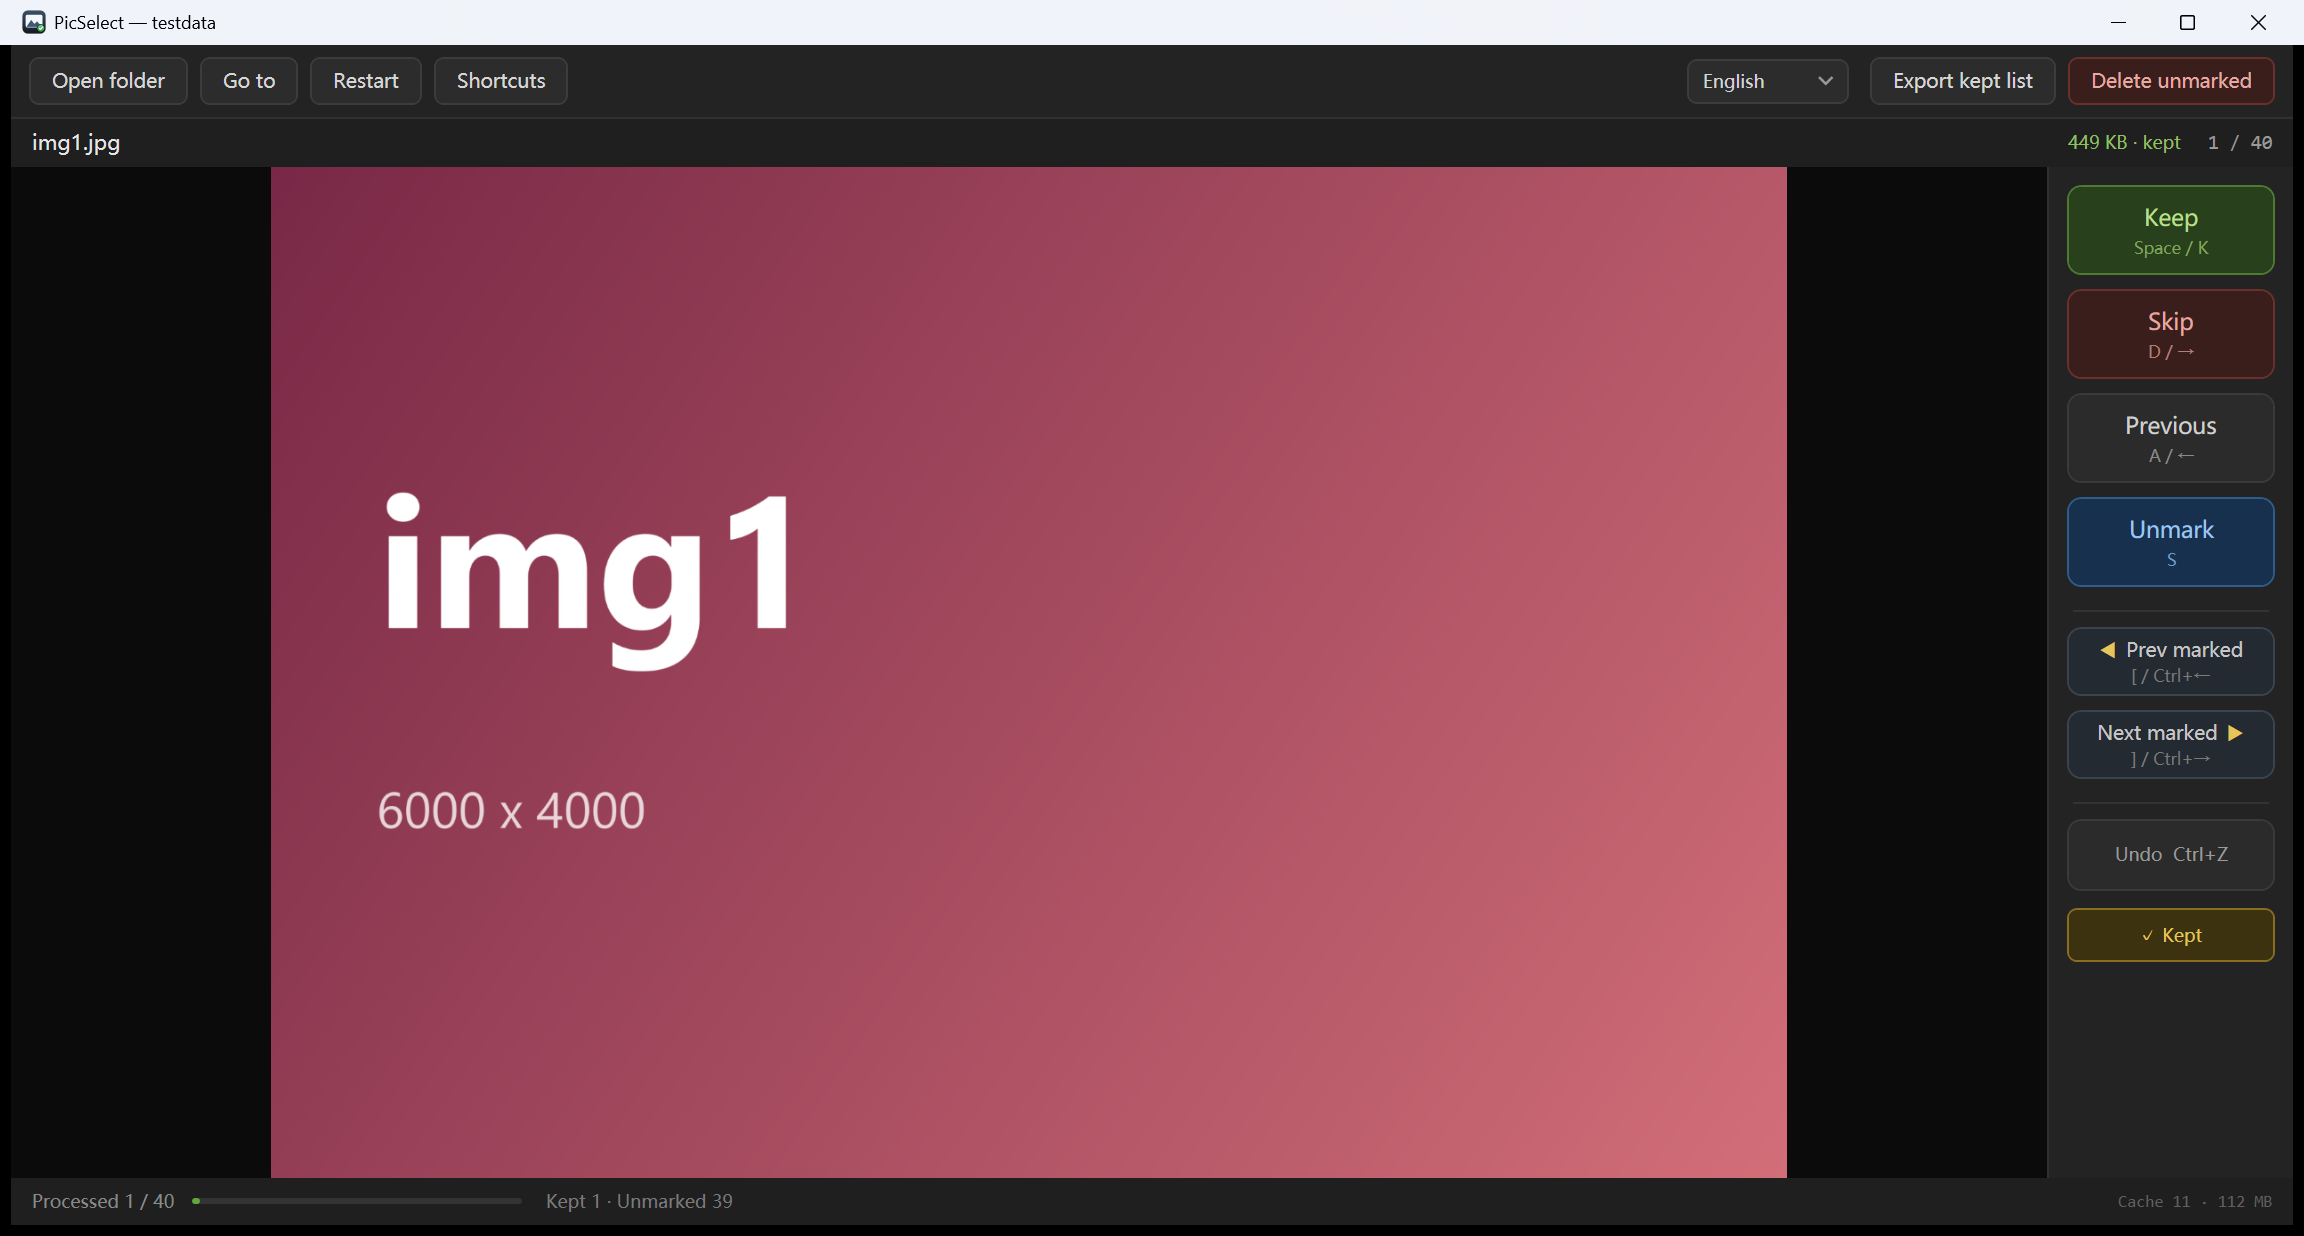
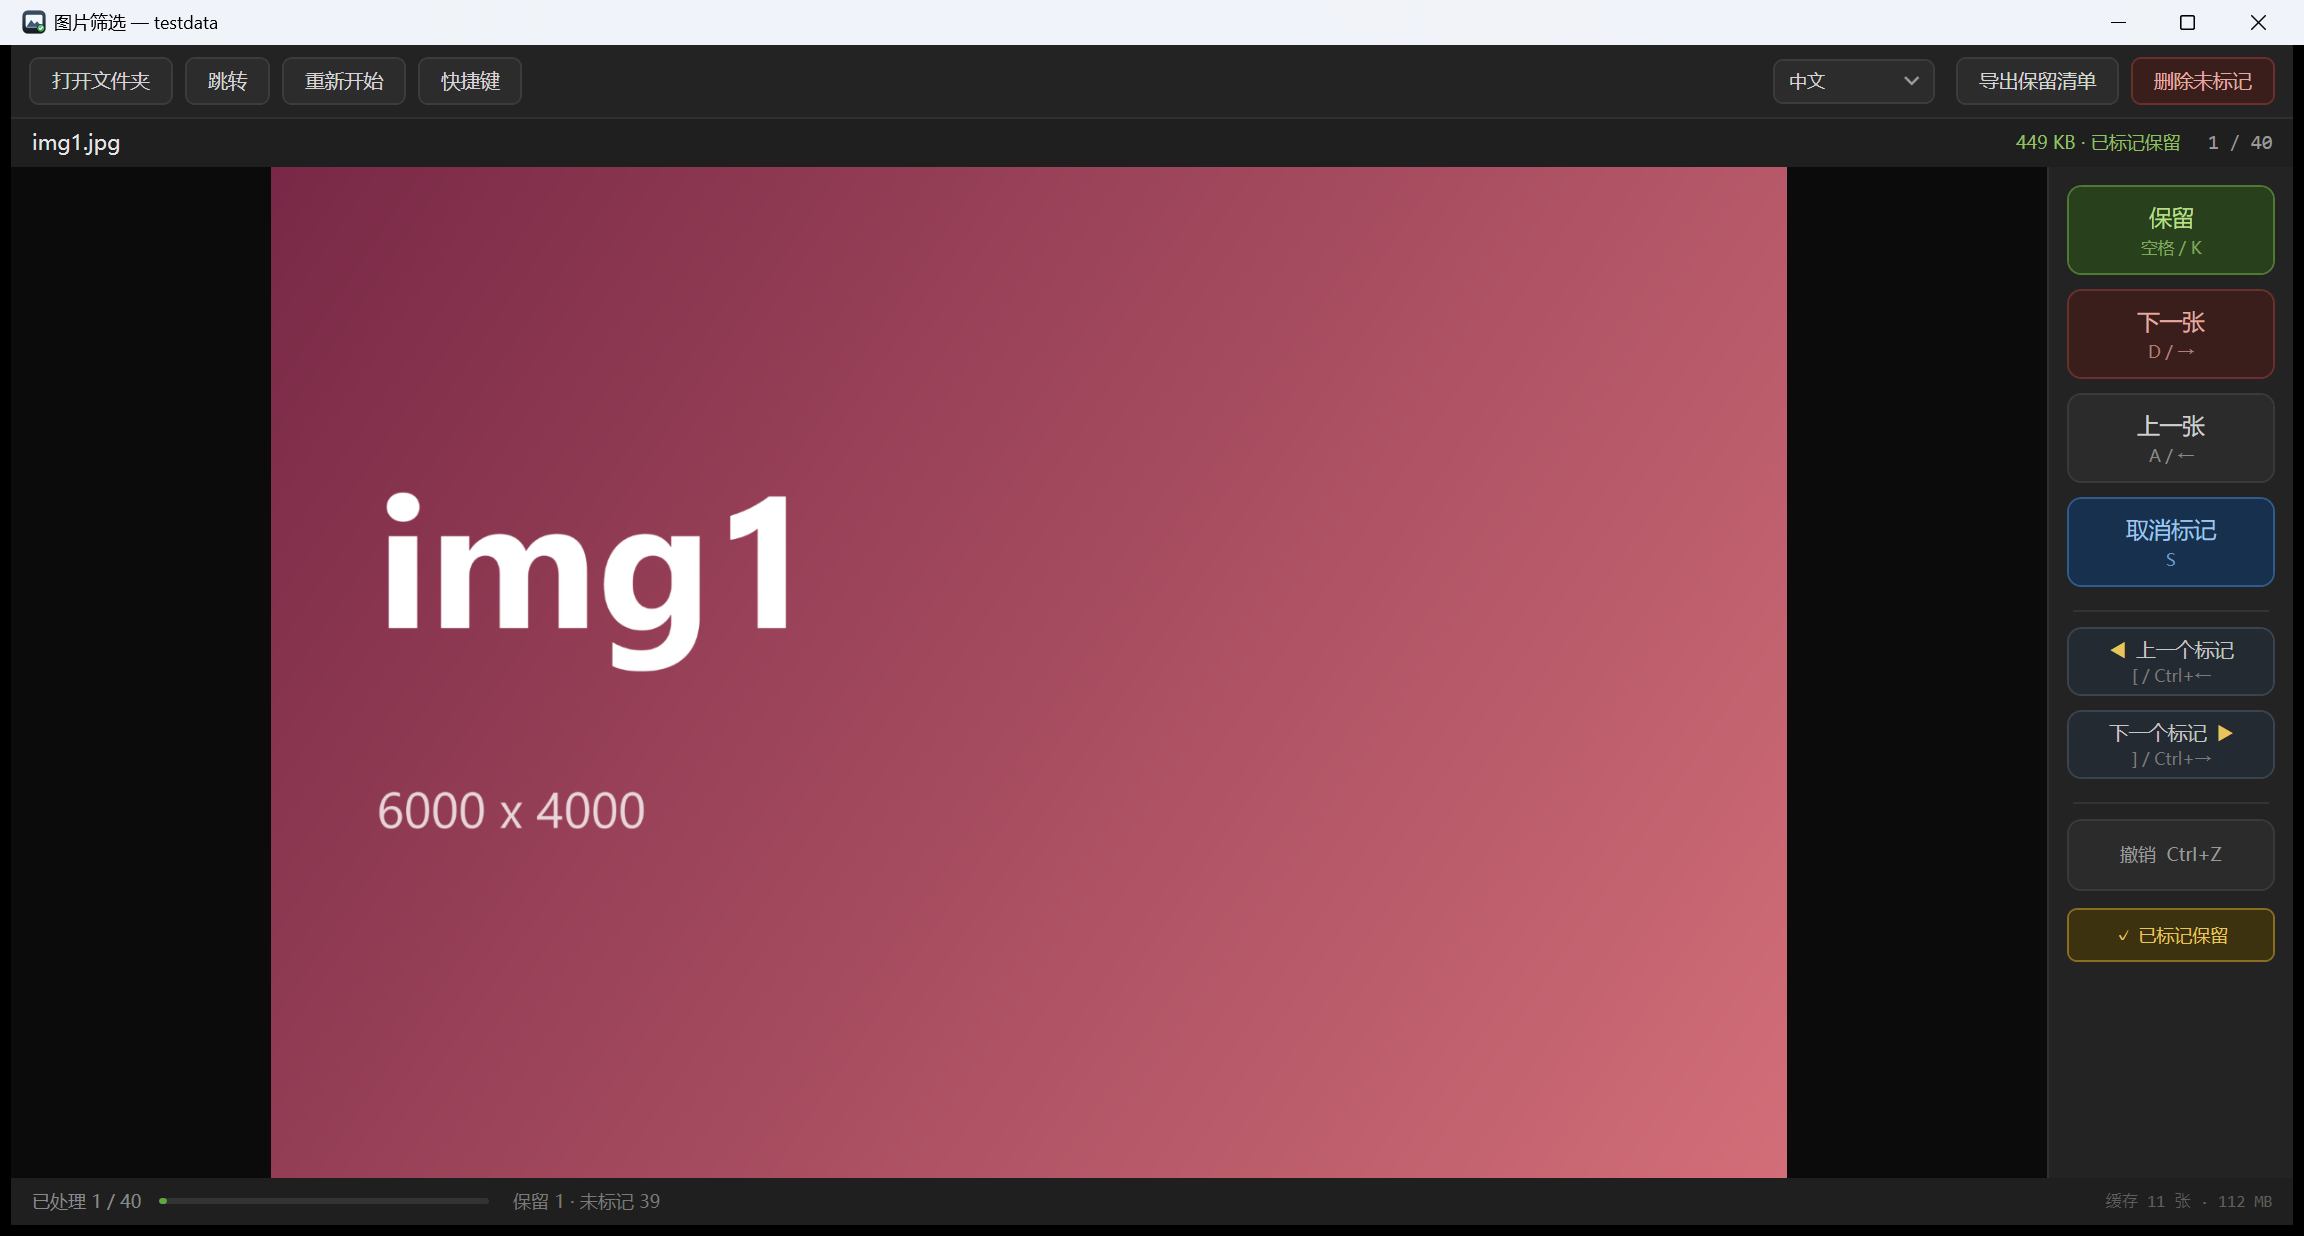
文言更新

diff --git a/src/PicSelect/MainWindow.xaml b/src/PicSelect/MainWindow.xaml
@@ -239,7 +239,7 @@
                     <Button Style="{StaticResource ActionButton}" Click="OnSkip"
                             Background="#3A1E1C" BorderBrush="#6B302C">
                         <StackPanel>
-                            <TextBlock x:Name="TxtSkipTitle" Text="Skip" FontSize="15"
+                            <TextBlock x:Name="TxtSkipTitle" Text="Next" FontSize="15"
                                        HorizontalAlignment="Center" Foreground="#E8A9A3" />
                             <TextBlock x:Name="TxtSkipHint" Text="D / →" FontSize="11"
                                        HorizontalAlignment="Center" Foreground="#B87C76" Margin="0,3,0,0" />

diff --git a/src/PicSelect/Core/Loc.cs b/src/PicSelect/Core/Loc.cs
@@ -59,7 +59,7 @@ public static class Loc
             ["top.delete"] = "Delete unmarked",
 
             ["btn.keep"] = "Keep",
-            ["btn.skip"] = "Skip",
+            ["btn.skip"] = "Next",
             ["btn.prev"] = "Previous",
             ["btn.mark"] = "Mark",
             ["btn.unmark"] = "Unmark",
@@ -130,7 +130,7 @@ public static class Loc
             ["help.title"] = "Shortcuts",
             ["help.body"] =
                 "Space / K     Keep and go next\n" +
-                "D / →         Skip and go next\n" +
+                "D / →         Next without marking\n" +
                 "A / ←         Previous image\n" +
                 "S             Toggle mark (stays on this image)\n" +
                 "[ / ]         Previous / next marked image\n" +
@@ -161,7 +161,7 @@ public static class Loc
             ["top.delete"] = "删除未标记",
 
             ["btn.keep"] = "保留",
-            ["btn.skip"] = "跳过",
+            ["btn.skip"] = "下一张",
             ["btn.prev"] = "上一张",
             ["btn.mark"] = "标记保留",
             ["btn.unmark"] = "取消标记",
@@ -232,7 +232,7 @@ public static class Loc
             ["help.title"] = "快捷键",
             ["help.body"] =
                 "空格 / K     保留并进入下一张\n" +
-                "D / →        跳过，进入下一张\n" +
+                "D / →        下一张（不标记）\n" +
                 "A / ←        上一张\n" +
                 "S            标记 / 取消标记（不移动）\n" +
                 "[ / ]        上一个 / 下一个已标记的图片\n" +
@@ -263,7 +263,7 @@ public static class Loc
             ["top.delete"] = "未選択を削除",
 
             ["btn.keep"] = "残す",
-            ["btn.skip"] = "飛ばす",
+            ["btn.skip"] = "次へ",
             ["btn.prev"] = "前へ",
             ["btn.mark"] = "残す印",
             ["btn.unmark"] = "印を消す",
@@ -334,7 +334,7 @@ public static class Loc
             ["help.title"] = "ショートカット",
             ["help.body"] =
                 "スペース / K   残して次へ\n" +
-                "D / →          飛ばして次へ\n" +
+                "D / →          印を付けずに次へ\n" +
                 "A / ←          前の画像\n" +
                 "S              印を付ける / 外す（移動しない）\n" +
                 "[ / ]          前 / 次の印へ\n" +

diff --git a/README.md b/README.md
@@ -13,7 +13,7 @@ English · [简体中文](README.zh-CN.md) · [日本語](README.ja.md)
 You download a pack of a thousand images and only ten of them are usable. Instead of clicking through a photo viewer and deleting files by hand, you go through the folder once:
 
 - **Keep** marks the image and advances
-- **Skip** advances without marking
+- **Next** advances without marking
 - **Mark** toggles the mark without moving
 - When you're done, **Delete unmarked** moves everything unmarked to the Recycle Bin in one go
 
@@ -63,7 +63,7 @@ The result is `dist/PicSelect.exe` — about 64 MB, self-contained.
 | Key | Action |
 |---|---|
 | `Space` / `K` | Keep and go next |
-| `D` / `→` | Skip and go next |
+| `D` / `→` | Next without marking |
 | `A` / `←` | Previous image |
 | `S` | Toggle mark (stays on this image) |
 | `[` / `]` | Previous / next marked image |

diff --git a/README.zh-CN.md b/README.zh-CN.md
@@ -13,7 +13,7 @@
 从网上下了一千张图，能用的只有十张。与其在照片查看器里一张张点开再手动删文件，不如把这个文件夹过一遍：
 
 - **保留**：标记这张并进入下一张
-- **跳过**：不标记，直接进入下一张
+- **下一张**：不标记，直接进入下一张
 - **标记保留**：只切换标记状态，画面不动
 - 全部看完后点 **删除未标记**，没标记的图片一次性进回收站
 
@@ -63,7 +63,7 @@ dotnet publish src/PicSelect -c Release -r win-x64 --self-contained true -p:Publ
 | 按键 | 作用 |
 |---|---|
 | `空格` / `K` | 保留并下一张 |
-| `D` / `→` | 跳过，下一张 |
+| `D` / `→` | 下一张（不标记） |
 | `A` / `←` | 上一张 |
 | `S` | 标记 / 取消标记（不移动） |
 | `[` / `]` | 上一个 / 下一个已标记 |

diff --git a/README.ja.md b/README.ja.md
@@ -13,7 +13,7 @@
 1000 枚の画像をダウンロードして、使えるのが 10 枚だけ——そんなときに。画像ビューアで 1 枚ずつ開いて手作業で削除する代わりに、フォルダを一度通すだけです：
 
 - **残す**：この画像に印を付けて次へ
-- **飛ばす**：印を付けずに次へ
+- **次へ**：印を付けずに次へ
 - **残す印**：印のオン／オフだけ切り替える（画像は動かない）
 - 見終わったら **未選択を削除** で、印の付いていない画像をごみ箱へまとめて移動
 
